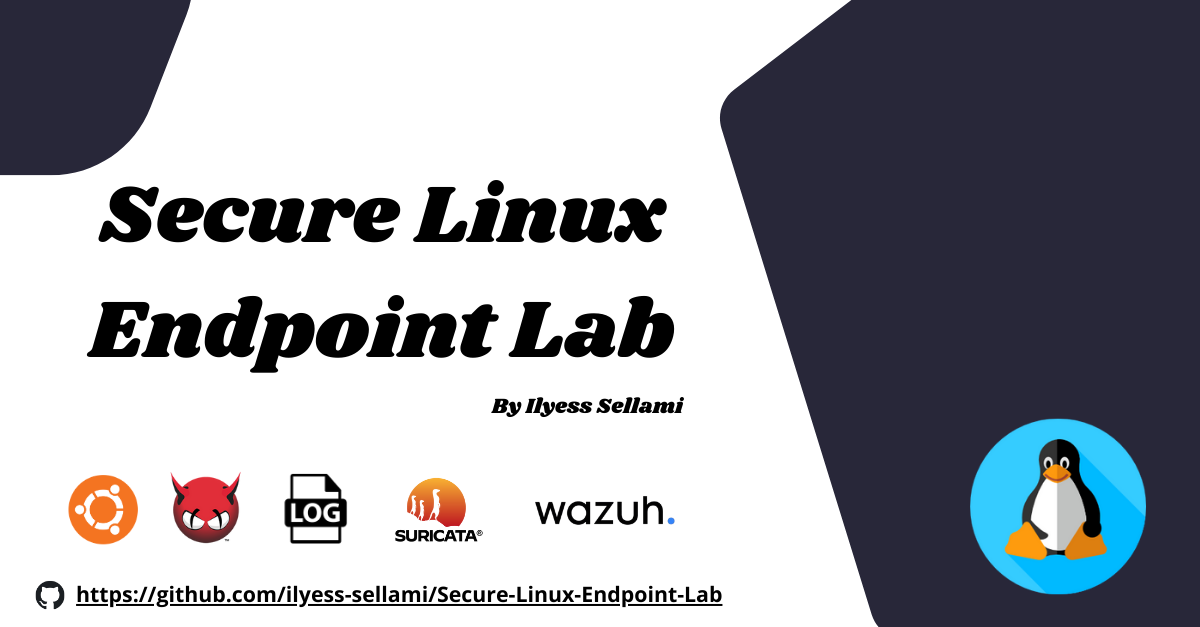
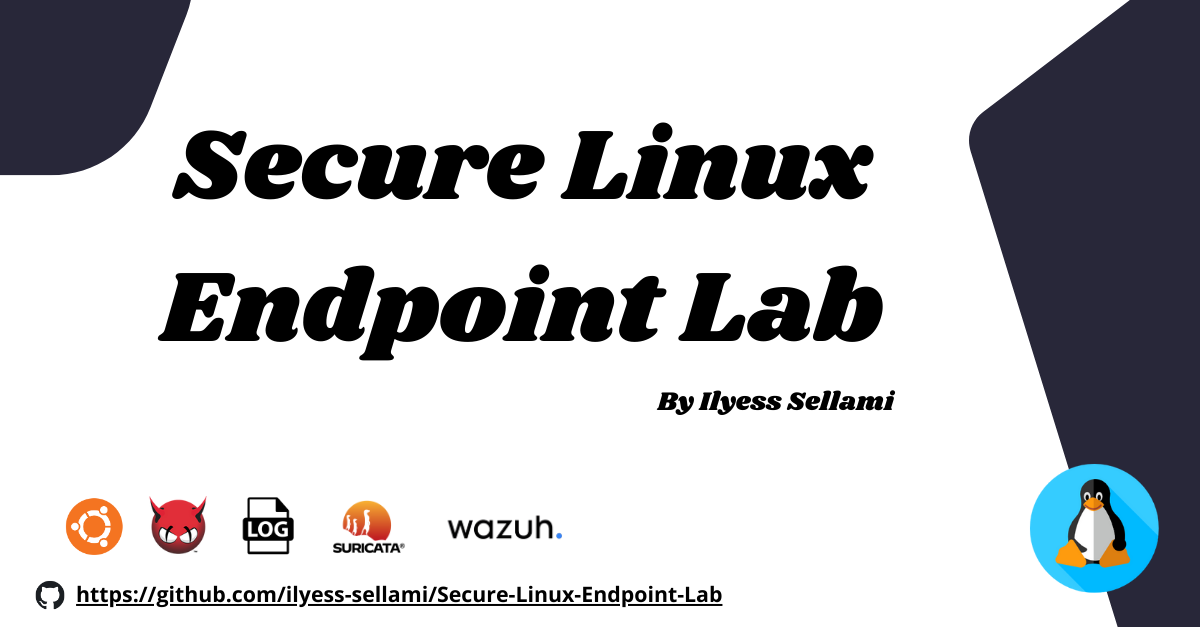
Update docs

diff --git a/README.md b/README.md
@@ -1,4 +1,8 @@
-# 🖥 Secure-Linux-Endpoint-Lab - Harden and monitor Linux endpoints
+# Secure Linux Endpoint Lab
+
+**Harden and monitor Linux endpoints 🐧 💻**
+
+---
 
 ![Linux Security](Secure-Linux-Endpoint-Lab.png)
 
